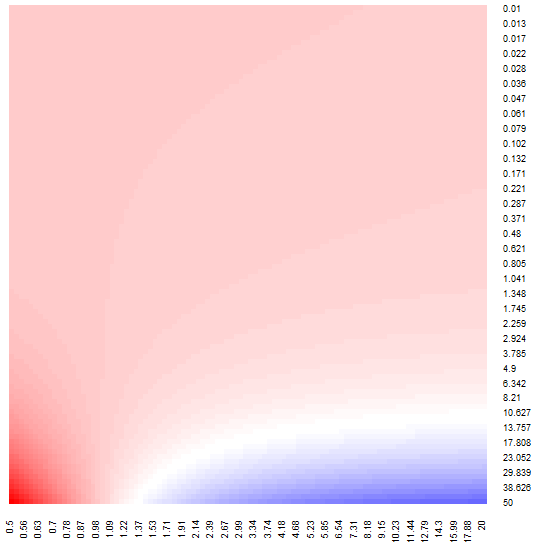
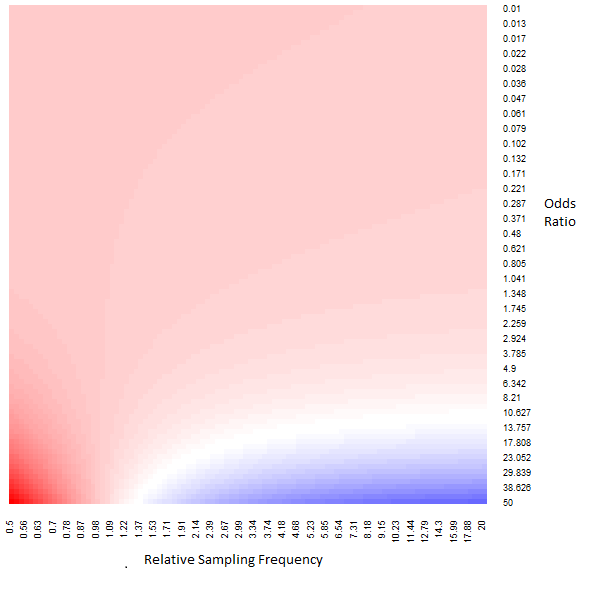
figure updates

Changed region(s): [[0.0, 0.0, 0.9724, 0.9873]]

diff --git a/write-up/covid-writeup.tex b/write-up/covid-writeup.tex
@@ -17,7 +17,7 @@
 \DeclareGraphicsExtensions{.eps, .ps}
 \usepackage{hyperref}
 \usepackage{amsmath, amsthm, amsfonts}
-% \usepackage[margin=1.5in]{geometry}
+\usepackage[margin=1.5in]{geometry}
 
 % \numberwithin{equation}{section}
 % \theoremstyle{plain}
@@ -43,13 +43,13 @@
 % \email{wdem@umich.edu}
 
 \begin{abstract}
-Many statisticians, epidemiologists, economists and data scientists have registered serious reservations regarding the reported coronavirus case-counts. Limited testing capacity across many states has been widely identified as a key driver of suppressed coronavirus case-counts.  Calls for increased testing capacity are well-justified and increasingly frequent.  While expanded testing is a laudable goal, selection bias will impact estimates of disease prevalence and the effective reproduction number until the entire population is sampled.  Moreover, tests are imperfect.  False positive/negative rates interact in complex ways with selection bias.  In this paper, we attempt to clarify this interaction.  Through simple calculations, we demonstrate pitfalls and paradoxes that can arise when considering case-count data in the presence of selection bias and measurement error. The discussion guides several suggestions on how to improve current case-count reporting.
+Many statisticians, epidemiologists, economists and data scientists have registered serious reservations regarding the reported coronavirus case-counts. Limited testing capacity across the country has been widely identified as a key driver of suppressed coronavirus case-counts.  The calls to increase testing capacity are well-justified as they become a more frequent point of discussion in the public sphere.  While expanded testing is a laudable goal, selection bias will impact estimates of disease prevalence and the effective reproduction number until the entire population is sampled.  Moreover, tests are imperfect as false positive/negative rates interact in complex ways with selection bias.  In this paper, we attempt to clarify this interaction.  Through simple calculations, we demonstrate pitfalls and paradoxes that can arise when considering case-count data in the presence of selection bias and measurement error. The discussion guides several suggestions on how to improve current case-count reporting.
 \end{abstract}
 
 \maketitle
 
 \section{Introduction}
-The World Health Organization has declared the coronavirus disease 2019 (COVID-19) a public health emergency.  As of April 27th, 2020, a total of 2,993,000 cases have been confirmed worldwide.  As of that afternoon, the New York Times reports at least 965,214 people across the United States have tested positive for the virus, and at least 49,465 patients with the virus have died.  Aggressive policies have been put in place across the US with at least 50\% of the US population officially urged as of late April to stay home via state-wide executive actions.
+The World Health Organization has declared the coronavirus disease 2019 (COVID-19) a public health emergency.  As of April 27th, 2020, a total of 2,993,000 cases have been confirmed worldwide.  The New York Times reports at least 965,214 people across the United States have tested positive for the virus, and at least 49,465 patients with the virus have died.  Aggressive policies have been put in place across the US with at least 50\% of the US population officially urged as of late April to stay home via state-wide executive actions.
 
 Despite these steps, the data landscape for understanding COVID-19 remains limited.  Public databases maintained by \href{https://bit.ly/2UqFSuA}{Johns Hopkins University}~\citep{JHU_Lancet} and the \href{https://bit.ly/2vUHfrK}{New York Times}~\cite{NYT} provide incoming county-level information of confirmed cases and deaths.  Statisticians, epidemiologists, economists, and data scientists have used this granular data to forecast COVID-19 case-counts, deaths, and hospitalizations~\citep{Song2020,Ray2020,2020.IHME}.  In many cases, variations on the SIR models have been used to draw inferences about infection rates and intensity.  Parametric inference often uses observed case-count and/or observed COVID-19 related deaths to infer latent trajectories of the pandemic.
 
@@ -100,7 +100,7 @@ This points to a troubling and paradoxical situation: the error relative to SRS 
 \vspace{-0.3cm}
 \end{wrapfigure}
 
-Second, there have been calls for increased testing.  While important, many conflate increased testing capacity with increased quality of testing.  We will discuss this point further in Section \ref{section:testingcomments}.  As of May 8th, the US has performed $8,412,095$ tests in total.  Figure~\ref{fig:ustests} shows the trajectory of testing per day and positive cases per day in the US.  The US population is roughly $328$ million, meaning the fraction sampled is $f = 0.026$.  After smoothing, the empirical prevalence is $9.1\%$ on May 8th.  Supposing COVID-19 positive individuals are $2$ times more likely to get tested than those individuals who are COVID-19 negative, the question is ``What is the sample size from a SRS that would yield equivalent MSE in the estimated prevalence?'' Using the above MSE result, Meng showed the effective sample size is equal to $n_{eff} \leq \frac{1}{E_I [ \rho_{I,Y}^2 ]} \frac{f}{1-f}$.  Under these parameters, the effective sample size is $14$.  Recent proposals~\citep{Siddarth2020} have argued in favor of increasing testing capacity which may reduce the relative sampling rate.  Supposing it drops to $1.2$ then the effective sample size will increase to $299$.  See Appendix~\ref{section:effss} for the mathematical details and calculations in additional scenarios.   The above calculations point to a sad state of affairs, saying that the effective sample size even in best case scenarios is not better than a small random sample from the population.
+Second, there have been calls for increased testing.  While important, many conflate increased testing capacity with increased quality of testing.  We will discuss this point further in Section \ref{section:testingcomments}.  As of May 8th, the US has performed $8,412,095$ tests in total.  Figure~\ref{fig:ustests} shows the trajectory of testing per day and positive cases per day in the US.  The US population is roughly $328$ million, meaning the fraction sampled is $f = 0.026$.  After smoothing, the empirical prevalence is $9.1\%$ on May 8th.  Supposing COVID-19 positive individuals are $2$ times more likely to get tested than those individuals who are COVID-19 negative, the question is ``What is the sample size from a SRS that would yield equivalent MSE in the estimated prevalence?'' Using the above MSE result, Meng showed the effective sample size is equal to $n_{eff} \leq \frac{1}{E_I [ \rho_{I,Y}^2 ]} \frac{f}{1-f}$.  Under these parameters, the effective sample size is $14$.  Recent proposals~\citep{Siddarth2020} have argued in favor of increasing overall testing capacity.  With more tests available, the relative sampling rate may reduce.  Supposing it drops to $1.2$ then the effective sample size will increase to $299$.  See Appendix~\ref{section:effss} for the mathematical details and calculations in additional scenarios.   The above calculations point to a sad state of affairs, saying that the effective sample size even in best case scenarios is not better than a small random sample from the population.
 
 The remainder of this paper aims to build upon these fundamental insights by extending the decomposition in two directions: accounting for  measurement error and the temporal nature of the pandemic.  We then discuss effective sampling methods and data versus decision-making.
 
@@ -112,9 +112,9 @@ First we require some additional notation.  Let $P_j$ be an indicator of measure
 $$
 \bar y_n^\star - \bar Y = \sqrt{\frac{1-f}{f}} \left[ \rho_{I,Y} \times \sigma_Y + \rho_{I,PZ} \times \sigma_{PZ} + \sqrt{\frac{f}{1-f}}  \left( FP - (FP+FN) \bar Y \right) \right] .
 $$
-where $Z = 1-2Y$; see Appendix~\ref{app:imperfect} for the derivation. The first term represents the perfect testing regime, the second term represents the interaction between imperfect testing and selection bias, while the third time represents the bias due to imperfect testing.  From here on, we refer to $\rho_{I,Y}$ as the \emph{true data quality}, and $\rho_{I,PZ}$ as the \emph{observed data quality} that accounts for both selection bias and measurement error.  In the appendix, we show the sign of $\rho_{I,PZ}$ is the opposite of the sign of $\rho_{I,Y}$, which implies that the observed data quality adds error in the opposite direction from the true data quality.
+where $Z = 1-2Y$; see Appendix~\ref{app:imperfect} for the derivation. The first term in the large brackets represents the perfect testing regime; to this end, we refer to $\rho_{I,Y}$ as the \emph{true data quality}.  The second term represents the interaction between imperfect testing and selection bias. The variable $PZ = 1[Y=0,P=1] - 1[Y=1, P=1]$ is non-zero only when $P=1$ (i.e., the outcome is incorrectly reported); to this end, we refer to $\rho_{I,PZ}$ as the \emph{observed data quality} that accounts for both selection bias and measurement error.  In the appendix, we show the sign of $\rho_{I,PZ}$ is the opposite of the sign of $\rho_{I,Y}$, which implies that the observed data quality adds error in the opposite direction from the true data quality.  Finally, the third term represents the bias due to imperfect testing.
 
-We start by considering the first two terms and assess whether the sign of the bias can reverse due to the interaction of measurement error and selection bias.  To do this, we define the sampling rates differential.  Let $f_1 := \pr (I_J = 1 \mid Y_J = 1)$ and $f_0 := \pr(I_J = 1 \mid Y_J = 1)$ be the sampling rates.  Then $\Delta = f_1 - f_0$ is the sampling rate differential.  Using these terms, we can re-express the first two terms as
+We start by considering the first two terms and assess whether the sign of the bias can reverse due to the interaction of measurement error and selection bias.  To do this, we define the sampling rates differential.  Let $f_1 := \pr (I_J = 1 \mid Y_J = 1)$ and $f_0 := \pr(I_J = 1 \mid Y_J = 0)$ be the sampling rates.  Then $\Delta = f_1 - f_0$ is the sampling rate differential.  Using these terms, we can re-express the first two terms as
 $$
 \rho_{I,Y} \times \sigma_Y + \rho_{I,PZ} \times \sigma_{PZ} =
 \rho_{I,Y} \times \sigma_Y \left[ 1 - \Delta \times \frac{\bar Y}{1-\bar Y} \times \frac{FP(1-\bar Y) + FN \cdot \bar Y}{f_0 (1-\bar Y) + f_1 \bar Y} \right].
@@ -136,14 +136,14 @@ The first term is the same as before but increased by $(1 + FP + FN)$ to account
 
 We next investigate the impact of measurement error on the effective sample size calculation.  The effective sample size can now be bounded by
 $$
-n_{eff} = \frac{f}{1-f} \times \frac{1}{E_{I} \left[ \rho_{I,Y}^2 D_M^2 \right]}.
+n_{eff} \le \frac{f}{1-f} \times \frac{1}{E_{I} \left[ \rho_{I,Y}^2 D_M^2 \right]}.
 $$
 In Section \ref{section:est_dq}, we discuss recent studies that estimate the COVID-19 false positive rate of $0.5$\% and false negative rate $17.2$\%.  Supposing COVID-19 positive individuals are $2$ times more likely to get tested than those individuals who are COVID-19 negative, the effective sample size drops from $14$ to $10$. If the relative sampling fraction drops to $1.2$ then the effective sample size drops from $299$ to $216$.
 
 \begin{wrapfigure}{r}{0.5\textwidth}
 \centering
 \includegraphics[width = 0.4\textwidth]{../methods/figs/mem_heatmap_article.png}
-\caption{measurement error data quality adjustment: relative frequency $f_1/f_0$ (x-axis) against odds ratio (y-axis) for $FP=0.005$ and $FN=0.172$. Color scaled so blue = $-10$, white = $0$, and red = $10$.}
+\caption{Measurement error data quality adjustment: relative frequency $f_1/f_0$ (x-axis) against odds ratio (y-axis) for $FP=0.005$ and $FN=0.172$. Color scaled so blue = $-10$, white = $0$, and red = $10$.}
 \label{fig:heatmap}
 \vspace{-0.3cm}
 \end{wrapfigure}
@@ -212,7 +212,7 @@ So here we see the exact same trade-off as with the rates but on the logarithmic
 \label{fig:rates}
 \end{figure}
 
-\subsection{Clinical trials}
+\subsection{Effect modifiers in COVID-19 clinical trials}
 
 Here we show how selection bias and measurement error can creep into clinical trial analysis. The key concern is whether clinical trials on COVID-19 recruit from the pool of individuals who have tested positive for COVID-19 or whether they sample randomly from the population, test, and then recruit from this subset of tested individuals.  To see this issue, suppose we have an outcome $Y$, a treatment $A$ and an \emph{unobserved} variable $U$.  Suppose treatment is assigned at random, i.e., $A =1$ with probability $50\%$ and $A=0$ with probability $50\%$.  Suppose the conditional mean of the outcome satisfies  $E(Y \mid U, A ) = \beta_0 + \beta_1 A + \beta_2 U + \beta_3 A U$.  Typically, we are interested in the \emph{causal effect} of $A$ on $Y$.  In counterfactual language,
 $$
